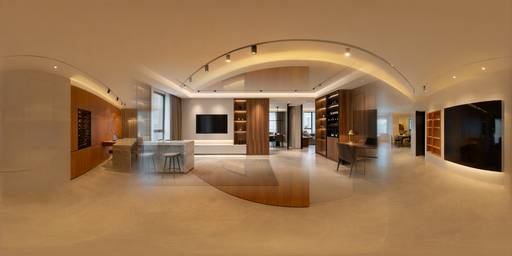
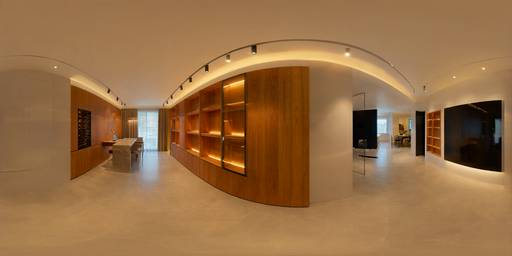
收口:换回标准2:1全景(不再硬贴透视图),FOV100,朝向+45

Changed region(s): [[0.25, 0.25, 0.75, 0.7812]]

diff --git a/index.html b/index.html
@@ -168,13 +168,13 @@
 <div id="hud">
   <button id="auto">自动旋转</button>
   <button id="reset">回正</button>
-  <button id="wide">广角 70°</button>
+  <button id="wide">广角 100°</button>
   <button id="spotbtn">热点 显示</button>
   <button id="editbtn">✎ 摆热点</button>
   <button id="fs">全屏</button>
   <button id="vr" style="display:none">VR</button>
   <span id="vrhint" style="display:none"></span>
-  <span id="fov">FOV 70°</span>
+  <span id="fov">FOV 100°</span>
 </div>
 <div id="load">正在载入全景...</div>
 <div id="mutebox"><span id="mutelab">关</span><button id="mute" title="背景音乐(默认关)">🔇</button></div>
@@ -209,7 +209,7 @@
 </div>
 
 <script>
-const ROOMS = [{"file": "pano1/s01_lo.jpg", "hi": "pano1/s01.jpg", "thumb": "thumbs/s01.jpg", "label": "木饰面展示系统 / 通高窗岩板吧台 / 悬浮大屏墙 / 走廊对景 · 拖动环视", "name": "01_01_样板间展厅", "v1": "01_样板间展厅", "idx": 1, "yaw0": 0.0}];
+const ROOMS = [{"file": "pano1/s01_lo.jpg", "hi": "pano1/s01.jpg", "thumb": "thumbs/s01.jpg", "label": "木饰面展示系统 / 通高窗岩板吧台 / 悬浮大屏墙 / 走廊对景 · 拖动环视", "name": "01_01_样板间展厅", "v1": "01_样板间展厅", "idx": 1, "yaw0": 0.7854}];
 let SPOTS = {"01_01_样板间展厅": [{"kind": "lamp", "yaw": -1.22, "pitch": 0.42, "title": "灯槽", "desc": "单开间 9.0×6.5m、层高 2.75m,周圈回光槽;长墙到顶木饰面展示系统(开放格与黑框玻璃柜交替、层板灯带),端头通高窗 + 白纱帘,窗前岩板瀑布边吧台配两椅;对面墙白悬浮板挂大屏 + 贴地悬浮矮柜 + 酒格高柜;第三面墙高柜 + 书桌;一端开口通走廊,尽头黑框玻璃隔断后是餐厅对景。花色:斜晖胡桃 + 婷兰灰。"}, {"kind": "lamp", "yaw": 0.0, "pitch": 0.42, "title": "层板灯带", "desc": "单开间 9.0×6.5m、层高 2.75m,周圈回光槽;长墙到顶木饰面展示系统(开放格与黑框玻璃柜交替、层板灯带),端头通高窗 + 白纱帘,窗前岩板瀑布边吧台配两椅;对面墙白悬浮板挂大屏 + 贴地悬浮矮柜 + 酒格高柜;第三面墙高柜 + 书桌;一端开口通走廊,尽头黑框玻璃隔断后是餐厅对景。花色:斜晖胡桃 + 婷兰灰。"}, {"kind": "lamp", "yaw": 1.22, "pitch": 0.42, "title": "轨道射灯", "desc": "单开间 9.0×6.5m、层高 2.75m,周圈回光槽;长墙到顶木饰面展示系统(开放格与黑框玻璃柜交替、层板灯带),端头通高窗 + 白纱帘,窗前岩板瀑布边吧台配两椅;对面墙白悬浮板挂大屏 + 贴地悬浮矮柜 + 酒格高柜;第三面墙高柜 + 书桌;一端开口通走廊,尽头黑框玻璃隔断后是餐厅对景。花色:斜晖胡桃 + 婷兰灰。"}]};
 const ORIGIN = {"01_01_样板间展厅": "单开间 9.0×6.5m、层高 2.75m,周圈回光槽;长墙到顶木饰面展示系统(开放格与黑框玻璃柜交替、层板灯带),端头通高窗 + 白纱帘,窗前岩板瀑布边吧台配两椅;对面墙白悬浮板挂大屏 + 贴地悬浮矮柜 + 酒格高柜;第三面墙高柜 + 书桌;一端开口通走廊,尽头黑框玻璃隔断后是餐厅对景。花色:斜晖胡桃 + 婷兰灰。"};
 
@@ -276,7 +276,7 @@ const U = {
   fov: gl.getUniformLocation(prog,'uFov'),
 };
 
-let yaw = 0, pitch = 0, fov = 70*Math.PI/180;
+let yaw = 0, pitch = 0, fov = 100*Math.PI/180;
 let auto = false, cur = -1, dragging = false, lx = 0, ly = 0, vx = 0, vy = 0;
 let showSpots = false, editMode = false, pending = null, selIdx = -1;
 /* 交叉淡入:texA = 上一张(退场),texB = 当前(进场),mixT 0→1 用 0.4s */
@@ -565,14 +565,14 @@ document.getElementById('reset').onclick = () => { yaw = 0; pitch = 0; vx = vy =
 
 /* 广角切换:默认 100°(正常在线全景的观感);点开 115° 让人一眼看全这间房。
    115° 的边缘横向拉伸约 3.4 倍,所以不做默认值。 */
-const FOV_NORMAL = 70*Math.PI/180, FOV_WIDE = 115*Math.PI/180;
+const FOV_NORMAL = 100*Math.PI/180, FOV_WIDE = 115*Math.PI/180;
 let wideOn = false;
 document.getElementById('wide').onclick = e => {
   wideOn = !wideOn;
   fov = wideOn ? FOV_WIDE : FOV_NORMAL;
   document.getElementById('fov').textContent = 'FOV ' + Math.round(fov*180/Math.PI) + '°';
   e.target.classList.toggle('on', wideOn);
-  e.target.textContent = wideOn ? '广角 115°' : '广角 70°';
+  e.target.textContent = wideOn ? '广角 115°' : '广角 100°';
 };
 document.getElementById('fs').onclick = () => {
   if (!document.fullscreenElement) document.documentElement.requestFullscreen?.();
